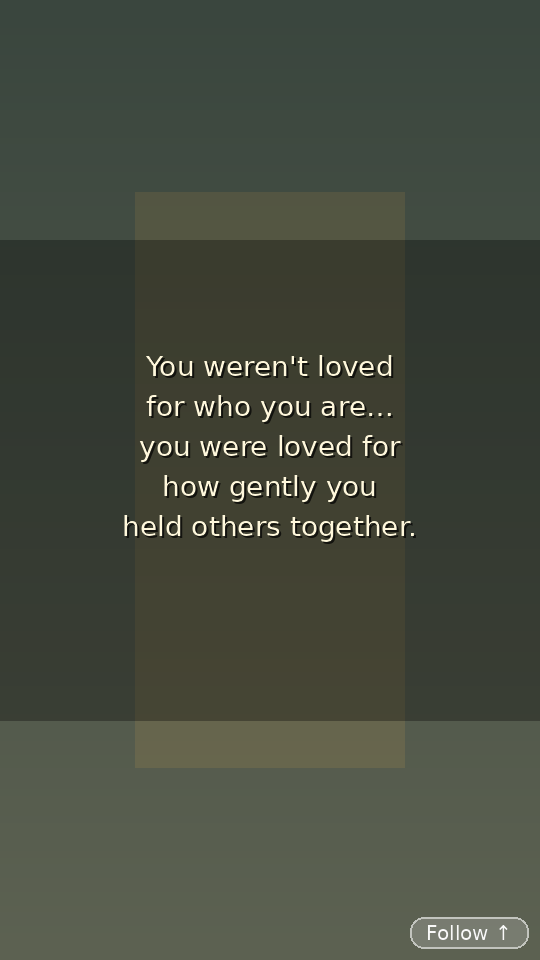
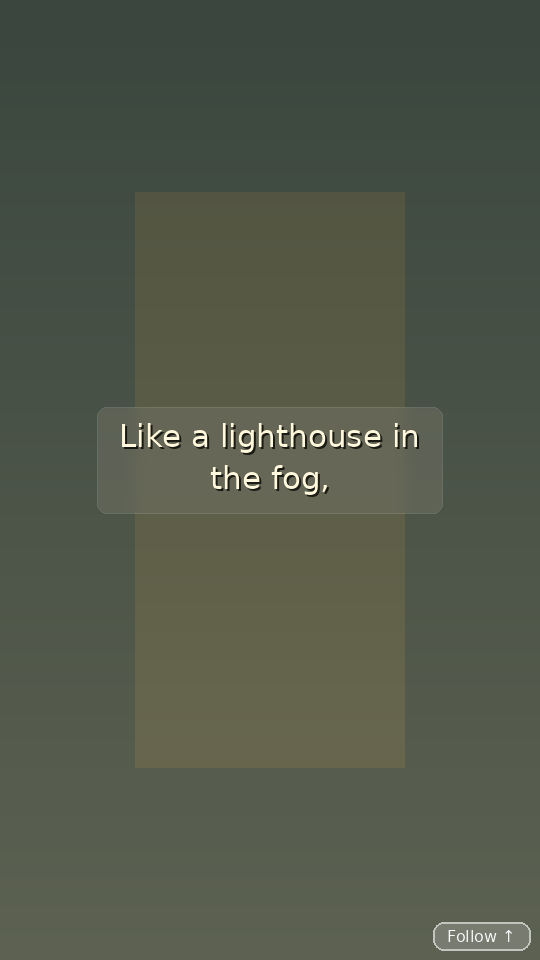
Fix 4 video issues: tight text scrim, bigger pill, 8 panels, sync fix
1. Text scrim: tight acrylic pill sized to text width (not full-width band)
   — measures widest wrapped line, draws fitted rounded rect with blur+tint

2. Follow button: font 22→32, padding 16/8→28/16 — visibly larger pill

3. 8 panels: NUM_PANELS 5→8 in pipeline + generate_images hard cap
   — each line gets its own image, no feeling of running out

4. Voice sync fix: GAP = AUDIO_GAP = 1.4s (was 1.2s)
   — eliminates 0.2s/line cumulative drift; by line 6 old code was
     1.2s ahead of audio. Now text holds for full speech + full silence.
   Crossfade also slowed 0.3s→0.6s for cinematic feel (less jarring)

https://claude.ai/code/session_018a9DgoDkRwRWf8uTuTieLK

diff --git a/scripts/compose_video.py b/scripts/compose_video.py
@@ -47,42 +47,66 @@ def get_audio_duration(path):
 
 def _draw_text_on_image(img, text):
     """
-    Whisprs-style text: large, bold, impactful typography.
-    Quote text IS the visual — big, centered, warm cream on soft dark scrim.
+    Text with a tight acrylic pill scrim sized to the text — not full-width.
+    Like a caption bubble that hugs the words.
     """
+    import colorsys
     draw_img = img.copy().convert("RGBA")
-
-    # Soft dark scrim behind text for legibility — gradient from center out
-    scrim = Image.new("RGBA", (WIDTH, HEIGHT), (0, 0, 0, 0))
-    scrim_draw = ImageDraw.Draw(scrim)
-    # Vertical center band — darkens just the text zone
-    scrim_draw.rectangle([0, HEIGHT // 4, WIDTH, HEIGHT * 3 // 4], fill=(0, 0, 0, 90))
-    draw_img = Image.alpha_composite(draw_img, scrim)
-
     overlay = Image.new("RGBA", draw_img.size, (0, 0, 0, 0))
     draw = ImageDraw.Draw(overlay)
 
-    # Large font — text is the hero, like Whisprs
     font = get_font(62)
-    # Tighter wrap for bigger font — fewer chars per line for impact
     wrapped = textwrap.wrap(text, width=22)
     line_height = font.size + 22
     total_h = len(wrapped) * line_height
 
-    # Vertically centered — biased slightly above center for portrait video
+    # Vertically centered, biased slightly above center
     text_y = (HEIGHT - total_h) // 2 - 40
 
+    # Measure the widest line to size the scrim tightly
+    max_text_w = 0
+    for wline in wrapped:
+        bb = draw.textbbox((0, 0), wline, font=font)
+        max_text_w = max(max_text_w, bb[2] - bb[0])
+
+    # Tight scrim — acrylic blurred pill fitted to text
+    SCRIM_PAD_X, SCRIM_PAD_Y, SCRIM_R = 44, 22, 20
+    sx0 = (WIDTH - max_text_w) // 2 - SCRIM_PAD_X
+    sy0 = text_y - SCRIM_PAD_Y
+    sx1 = (WIDTH + max_text_w) // 2 + SCRIM_PAD_X
+    sy1 = text_y + total_h + SCRIM_PAD_Y
+
+    # Blur the region behind the scrim (acrylic frost)
+    region = draw_img.convert("RGB").crop((sx0, sy0, sx1, sy1))
+    from PIL import ImageFilter
+    blurred = region.filter(ImageFilter.GaussianBlur(radius=12))
+    # Sample avg color for Win11-style acrylic tint
+    avg = blurred.resize((1, 1)).getpixel((0, 0))[:3]
+    h, s, v = colorsys.rgb_to_hsv(avg[0]/255, avg[1]/255, avg[2]/255)
+    v = min(1.0, v + 0.08)   # subtle brightening (text scrim, not pill)
+    s = max(0.0, s - 0.10)
+    tr, tg, tb = colorsys.hsv_to_rgb(h, s, v)
+    tint = (int(tr*255), int(tg*255), int(tb*255))
+    rgb = draw_img.convert("RGB")
+    rgb.paste(blurred, (sx0, sy0))
+    draw_img = rgb.convert("RGBA")
+    overlay = Image.new("RGBA", draw_img.size, (0, 0, 0, 0))
+    draw = ImageDraw.Draw(overlay)
+
+    # Tinted dark glass pill behind text
+    draw.rounded_rectangle([sx0, sy0, sx1, sy1], radius=SCRIM_R,
+                            fill=(*tint, 140))
+    draw.rounded_rectangle([sx0, sy0, sx1, sy1], radius=SCRIM_R,
+                            outline=(255, 255, 255, 40), width=1)
+
+    # Bake the text lines on top
     for i, wline in enumerate(wrapped):
-        bbox = draw.textbbox((0, 0), wline, font=font)
-        text_w = bbox[2] - bbox[0]
+        bb = draw.textbbox((0, 0), wline, font=font)
+        text_w = bb[2] - bb[0]
         x = (WIDTH - text_w) // 2
         wy = text_y + i * line_height
-
-        # Deep shadow — 3 layers for legibility against any background
-        draw.text((x + 4, wy + 4), wline, font=font, fill=(0, 0, 0, 200))
-        draw.text((x + 2, wy + 2), wline, font=font, fill=(0, 0, 0, 150))
+        draw.text((x + 3, wy + 3), wline, font=font, fill=(0, 0, 0, 180))
         draw.text((x + 1, wy + 1), wline, font=font, fill=(0, 0, 0, 100))
-        # Warm cream — easy on eyes, works on illustrated backgrounds
         draw.text((x, wy), wline, font=font, fill=(255, 248, 220, 255))
 
     result = Image.alpha_composite(draw_img, overlay)
@@ -135,13 +159,13 @@ def _draw_follow_button(img):
 
     draw_img = img.copy().convert("RGBA") if img.mode != "RGBA" else img.copy()
 
-    btn_font = get_font(22)
+    btn_font = get_font(32)           # bigger font → bigger pill
     label = "Follow ↑"
     tmp = ImageDraw.Draw(draw_img)
     bbox = tmp.textbbox((0, 0), label, font=btn_font)
     bw, bh = bbox[2] - bbox[0], bbox[3] - bbox[1]
 
-    PAD_X, PAD_Y, MARGIN, RADIUS = 16, 8, 12, 14  # tight margin → close to edge
+    PAD_X, PAD_Y, MARGIN, RADIUS = 28, 16, 20, 22  # more padding → bigger pill
     x0 = WIDTH - bw - PAD_X * 2 - MARGIN
     y0 = HEIGHT - bh - PAD_Y * 2 - MARGIN
     x1 = WIDTH - MARGIN
@@ -194,7 +218,9 @@ def compose_video(script_data, image_paths, audio_path, subtitle_path, music_pat
     # Use actual per-line audio durations so each panel matches its narration
     TAIL_PAD = 5.0
     AUDIO_GAP = 1.4  # must match LINE_GAP in generate_audio.py
-    GAP = 1.2   # visual panel change gap — shorter than audio for snappier feel
+    # Visual GAP == AUDIO_GAP: eliminates cumulative drift (each panel holds
+    # for exactly line_speech + full silence, then advances with the narrator)
+    GAP = AUDIO_GAP
 
     line_durations = []
     for i in range(num_lines):
@@ -203,7 +229,7 @@ def compose_video(script_data, image_paths, audio_path, subtitle_path, music_pat
             line_durations.append(get_audio_duration(line_path))
 
     if len(line_durations) == num_lines:
-        # Each segment = line audio + gap (except last = line + tail pad)
+        # Each segment = line audio + full gap → perfectly in sync, no drift
         seg_durations = [d + GAP for d in line_durations]
         seg_durations[-1] = line_durations[-1] + TAIL_PAD
         print(f"[video] Using per-line durations: {[f'{d:.1f}s' for d in seg_durations]}")
@@ -281,7 +307,7 @@ def compose_video(script_data, image_paths, audio_path, subtitle_path, music_pat
         print(f"[video]   Panel {i+1}/{num_lines}: {seg_durations[i]:.1f}s")
 
     # Step 2: Concat all clips with crossfade
-    XFADE = 0.3
+    XFADE = 0.6   # slower fade between images — less jarring, more cinematic
     output_no_audio = os.path.join(OUTPUT_DIR, "_video_noaudio.mp4")
 
     if len(panel_videos) == 1:

diff --git a/scripts/generate_images.py b/scripts/generate_images.py
@@ -312,7 +312,7 @@ def generate_images(topic, visual_keywords, num_panels=5):
     - Saves new images to gallery (capped at 500)
     At least 1 image must succeed or pipeline fails."""
     os.makedirs(OUTPUT_DIR, exist_ok=True)
-    num_panels = min(num_panels, 5)  # Hard cap at 5
+    num_panels = min(num_panels, 8)  # Hard cap at 8 — enough for poetic scripts
     paths = []
     successful_paths = []  # Track successfully generated images for reuse within this video
 

diff --git a/scripts/pipeline.py b/scripts/pipeline.py
@@ -40,7 +40,7 @@ OUTPUT_DIR = os.path.join(os.path.dirname(__file__), "..", "output")
 MIN_AUDIO_BYTES   = 100_000   # 100 KB — ElevenLabs audio for 5 lines
 MIN_IMAGE_BYTES   =  50_000   # 50 KB  — real AI image (not gradient/placeholder)
 MIN_VIDEO_BYTES   = 800_000   # 800 KB — 30s vertical video
-NUM_PANELS        = 5
+NUM_PANELS        = 8
 
 
 def clean_output():
